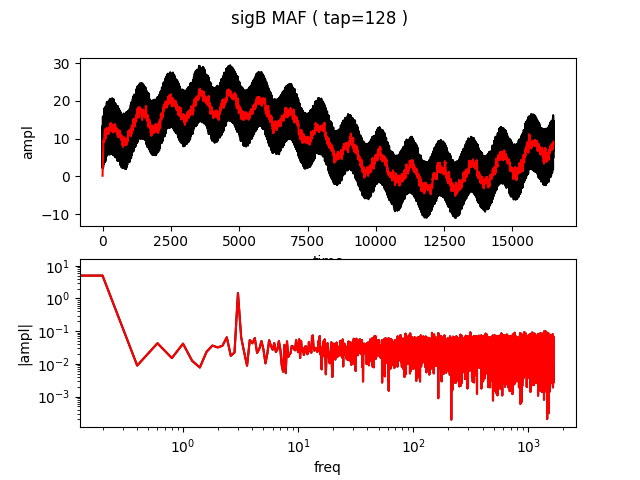
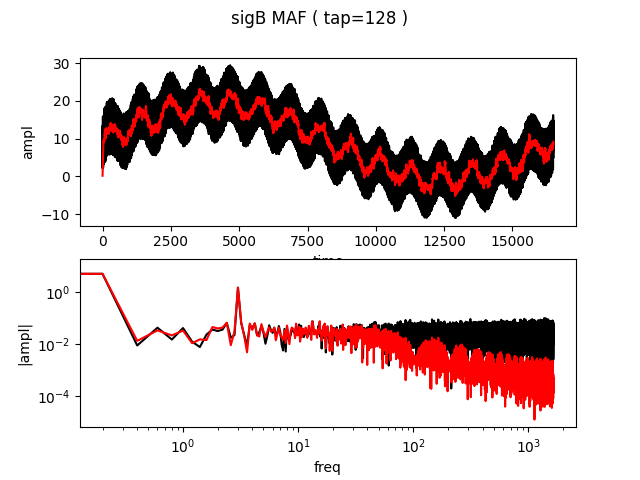
[hw9-dsp] added FIR plots

diff --git a/hw9-dsp/fir_coefs.py b/hw9-dsp/fir_coefs.py
@@ -1,5 +1,5 @@
 
-des_A = "type rectangular, cutoff 100 Hz, transition BW 100 Hz"
+des_A = "type low-pass rectangular, cutoff 100 Hz, transition BW 100 Hz"
 hA = [
     0.001867519746044820,
     0.002275293677911463,
@@ -94,39 +94,103 @@ hA = [
     0.001867519746044820,
 ]
 
-des_B =""
-hB = []
+des_B = "type low-pass rectangular, cutoff 40 Hz, transition BW 60 Hz"
+hB = [
+    0.011973760647185845,
+    0.012764963531802788,
+    0.013547743983099020,
+    0.014319572891676605,
+    0.015077938135948495,
+    0.015820354597597411,
+    0.016544374108901028,
+    0.017247595288040200,
+    0.017927673218897353,
+    0.018582328932446445,
+    0.019209358647631129,
+    0.019806642730620421,
+    0.020372154332517330,
+    0.020903967666969676,
+    0.021400265890687626,
+    0.021859348551602379,
+    0.022279638571296632,
+    0.022659688730391057,
+    0.022998187627773125,
+    0.023293965086893596,
+    0.023545996984822543,
+    0.023753409482337711,
+    0.023915482636002201,
+    0.024031653375962813,
+    0.024101517836051748,
+    0.024124833025689536,
+    0.024101517836051748,
+    0.024031653375962813,
+    0.023915482636002201,
+    0.023753409482337711,
+    0.023545996984822543,
+    0.023293965086893596,
+    0.022998187627773125,
+    0.022659688730391057,
+    0.022279638571296632,
+    0.021859348551602379,
+    0.021400265890687626,
+    0.020903967666969676,
+    0.020372154332517330,
+    0.019806642730620421,
+    0.019209358647631129,
+    0.018582328932446445,
+    0.017927673218897353,
+    0.017247595288040200,
+    0.016544374108901028,
+    0.015820354597597411,
+    0.015077938135948495,
+    0.014319572891676605,
+    0.013547743983099020,
+    0.012764963531802788,
+    0.011973760647185845,
+]
 
 des_C = ""
 hC = []
 
-des_D = "type Blackmanm, cutoff 10Hz, transition BW 50Hz"
+des_D = "type low-pass rectangular, cutoff 20Hz, transition BW 10Hz"
 hD = [
-    0.003406212229674561,
-    0.004615070664811991,
-    0.007608634521169020,
-    0.012659850008542091,
-    0.019798608584983383,
-    0.028784787004261951,
-    0.039116212018982140,
-    0.050071944217781210,
-    0.060786348627844503,
-    0.070345019112866947,
-    0.077890394025478593,
-    0.082723325067391634,
-    0.084387187832423882,
-    0.082723325067391634,
-    0.077890394025478607,
-    0.070345019112866961,
-    0.060786348627844530,
-    0.050071944217781210,
-    0.039116212018982154,
-    0.028784787004261965,
-    0.019798608584983383,
-    0.012659850008542096,
-    0.007608634521169026,
-    0.004615070664811996,
-    0.003406212229674561,
+    -0.011372199816170105,
+    -0.016573224941959890,
+    -0.020700681558095849,
+    -0.023217050319278440,
+    -0.023657921780680966,
+    -0.021672678770255253,
+    -0.017058299724255155,
+    -0.009783358783520921,
+    0.000000000000000004,
+    0.011957438513192233,
+    0.025587449586382732,
+    0.040249260573331197,
+    0.055201817488255582,
+    0.069651150957835320,
+    0.082802726232383397,
+    0.093914941337772784,
+    0.102349798345530901,
+    0.107616946618730044,
+    0.109407772081604557,
+    0.107616946618730044,
+    0.102349798345530901,
+    0.093914941337772784,
+    0.082802726232383397,
+    0.069651150957835320,
+    0.055201817488255582,
+    0.040249260573331197,
+    0.025587449586382732,
+    0.011957438513192233,
+    0.000000000000000004,
+    -0.009783358783520921,
+    -0.017058299724255155,
+    -0.021672678770255253,
+    -0.023657921780680966,
+    -0.023217050319278440,
+    -0.020700681558095849,
+    -0.016573224941959890,
+    -0.011372199816170105,
 ]
 
 FIR_DES = \

diff --git a/hw9-dsp/main.py b/hw9-dsp/main.py
@@ -143,7 +143,12 @@ IIR_A = \
 
 if __name__ == "__main__":
 
+	from sys import argv
+
 	tag = "A"
+	if len( argv ) > 1:
+		tag = argv[ 1 ]
+	
 	sig_name = f"sig{ tag }" 
 	filename = f"{ sig_name }.csv"
 
@@ -173,7 +178,7 @@ if __name__ == "__main__":
 
 	figname = f"{ sig_name }.png"
 	title = sig_name + f" (Fs={ int( sampling_rate ) }Hz)"
-	#plot_td_fd( ts, data, freqs, fft_out, figname=figname, title=title )
+	plot_td_fd( ts, data, freqs, fft_out, figname=figname, title=title )
 
 	maf_tap = MAF_TAPS[ tag ]
 	maf_figname = f"{ sig_name }_maf.png"
